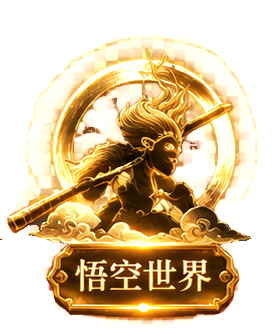
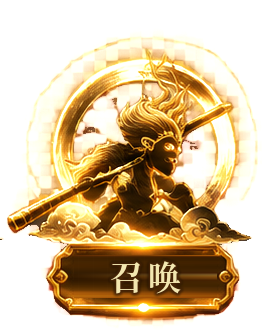
Rename the 悟空世界 nav tab to 召唤 (Summon in English)
Claude-Session: https://claude.ai/code/session_016ABtT99JTdfqQrBUz6aydL

Changed region(s): [[0.2628, 0.753, 0.7883, 0.9036], [0.7591, 0.8735, 0.7883, 0.9036]]

diff --git a/components/bottom-nav.tsx b/components/bottom-nav.tsx
@@ -11,13 +11,13 @@ import { useProduct } from './product-provider'
 
 const ITEMS = [
   { href: '/', label: '首页', asset: 'home' },
-  { href: '/world', label: '悟空世界', asset: 'world' },
+  { href: '/world', label: '召唤', asset: 'world' },
   { href: '/house', label: '猴舍', asset: 'house' },
   { href: '/me', label: '我的', asset: 'me' },
 ] as const
 
 /** 导航图标上的中文字是画在图里的；英文模式下用同样位置的文字牌盖住 */
-const EN_LABELS: Record<string, string> = { '/': 'Home', '/world': 'Realms', '/house': 'Den', '/me': 'Me' }
+const EN_LABELS: Record<string, string> = { '/': 'Home', '/world': 'Summon', '/house': 'Den', '/me': 'Me' }
 
 export function BottomNav() {
   const pathname = usePathname()
@@ -54,7 +54,7 @@ export function BottomNav() {
                 className="pointer-events-auto relative block w-1/4 max-w-[104px] rounded-xl outline-offset-2 focus-visible:outline-2 focus-visible:outline-[var(--gold-300)]"
               >
                 <Image
-                  src={`/assets/nav-${asset}-default.png?v=2`}
+                  src={`/assets/nav-${asset}-default.png?v=3`}
                   alt=""
                   width={274}
                   height={332}
@@ -62,7 +62,7 @@ export function BottomNav() {
                   className={cn('block h-auto w-full transition-opacity duration-200 motion-reduce:transition-none', active ? 'opacity-0' : 'opacity-100')}
                 />
                 <Image
-                  src={`/assets/nav-${asset}-active.png?v=2`}
+                  src={`/assets/nav-${asset}-active.png?v=3`}
                   alt=""
                   width={274}
                   height={332}
